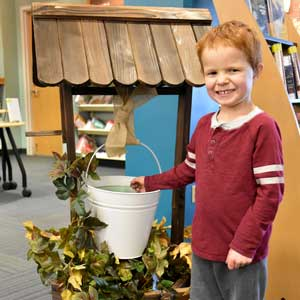
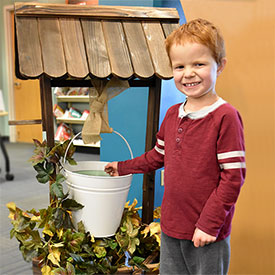
image and edit updates

diff --git a/foundation/index.html b/foundation/index.html
@@ -303,13 +303,13 @@ height="0" width="0" style="display:none;visibility:hidden"></iframe>
       </div>
     </div>
   </div>
-  <div class="row bg-gray-5 padding-top-30">
+  <div class="row bg-lavender padding-top-30">
     <div class="container">
-      <div class="col-md-4 col-md-push-8 equal-height padding-bottom-30"> <img class="img-circle img-responsive image-center" src="wishing-well.jpg" alt="Make a Wish"> </div>
-      <div class="col-md-8 col-md-pull-4 equal-height flex-center padding-bottom-40">
+      <div class="col-md-3 col-md-push-8 equal-height padding-bottom-30"> <img class="img-circle img-responsive image-center" src="wishing-well.jpg" alt="Make a Wish"> </div>
+      <div class="col-md-7 col-md-pull-2 equal-height flex-center padding-bottom-40">
         <div class="text-center text-right-md">
-          <h2 class="no-margin-top">Make a Wish on 11:11</h2>
-          <div class="large-text">Starting November 11, look for the wishing wells at our libraries and make a wish with your loose change. All wishing well donations help make a difference in our community, and they can make wishes come true!</div>
+          <h2 class="white no-margin-top">Make a Wish on 11-11</h2>
+          <div class="large-text white">Starting November 11, look for the wishing wells at our libraries and make a wish with your loose change. All wishing well donations help make a difference in our community, and they can make wishes come true!</div>
         </div>
       </div>
     </div>
@@ -317,8 +317,8 @@ height="0" width="0" style="display:none;visibility:hidden"></iframe>
   
   <!--add to new row later<h2 class="white">12 Days of Making Wishes Come True &mdash; Starts November 24!</h2>-->
   
-  <div class="row padding-top-30">
-    <div class="container margin-lg-100">
+  <div class="row shelf-shadow padding-top-30">
+    <div class="container no-padding margin-lg-100">
       <div class="embed-responsive embed-responsive-16by9">
         <iframe class="embed-responsive-item" src="https://www.youtube.com/embed/v2q2Lf9zwco?rel=0&amp;showinfo=0" frameborder="0" allowfullscreen></iframe>
       </div>
@@ -327,21 +327,21 @@ height="0" width="0" style="display:none;visibility:hidden"></iframe>
   <div class="row shelf">
     <div class="shelf-container text-center"> <a href="https://dcl.bibliocommons.com/item/show/574342114"><img class="cover-image" src="https://secure.syndetics.com/index.aspx?isbn=9780142402757/MC.GIF&client=dougp&type=xw12&oclc=" alt="The Spiffiest Giant in Town"></a> <a href="https://dcl.bibliocommons.com/item/show/676538114"><img class="cover-image" src="https://secure.syndetics.com/index.aspx?isbn=9780399243028/MC.GIF&client=dougp&type=xw12&oclc=&upc=9780399243028" alt="An Orange for Frankie"></a> <a href="https://dcl.bibliocommons.com/item/show/849182114"><img class="cover-image" src="https://secure.syndetics.com/index.aspx?isbn=9780763642846/MC.GIF&client=dougp&type=xw12&oclc=" alt="Those Shoes"></a> <a href="https://dcl.bibliocommons.com/item/show/955277114"><img class="cover-image" src="https://secure.syndetics.com/index.aspx?isbn=9781600602665/MC.GIF&client=dougp&type=xw12&oclc=" alt="The Can Man"></a> <a href="https://dcl.bibliocommons.com/item/show/369674114"><img class="cover-image" src="https://secure.syndetics.com/index.aspx?isbn=9780439309103/MC.GIF&client=dougp&type=xw12&oclc=" alt="The Quiltmaker's Gift"></a> </div>
   </div>
-  <div class="row shelf-shadow padding-bottom-30">
+  <div class="row shelf-shadow padding-bottom-15">
     <div class="container text-center padding-top-30">
       <div class="large-text"><a href="https://dcl.bibliocommons.com/list/share/692283576_dclkids/748684447">Giving feels good!</a> Teach your kids about the importance of generosity this holiday season.</div>
       <div class="padding-top-15"><a class="text-uppercase" href="https://dcl.bibliocommons.com/list/share/692283576_dclkids/748684447">See Entire List »</a></div>
     </div>
   </div>
-  <div class="row padding-top-60">
-    <div class="container">
-      <div class="col-md-7 equal-height flex-center">
+  <div class="row">
+    <div class="container margin-lg-200">
+      <div class="col-md-6">
         <div class="text-center text-right-md">
           <h4 class="roboto"> Please support us when you shop this holiday season. </h4>
           <div class="padding-bottom-15">Shop for everyone on your gift list this holiday at <a href="https://smile.amazon.com/ch/84-1207775" target="_blank">smile.amazon.com</a> and Amazon donates to Douglas County Libraries Foundation.</div>
         </div>
       </div>
-      <div class="col-md-5 equal-height"> <a href="https://smile.amazon.com/ch/84-1207775" target="_blank"><img class="img-responsive image-center" src="presents.png" alt="Amazon Smile"></a> </div>
+      <div class="col-md-6"> <a href="https://smile.amazon.com/ch/84-1207775" target="_blank"><img class="img-responsive image-center" src="presents.png" alt="Amazon Smile"></a> </div>
     </div>
   </div>
   <div class="row bg-lavender padding-top-30 padding-bottom-40">
